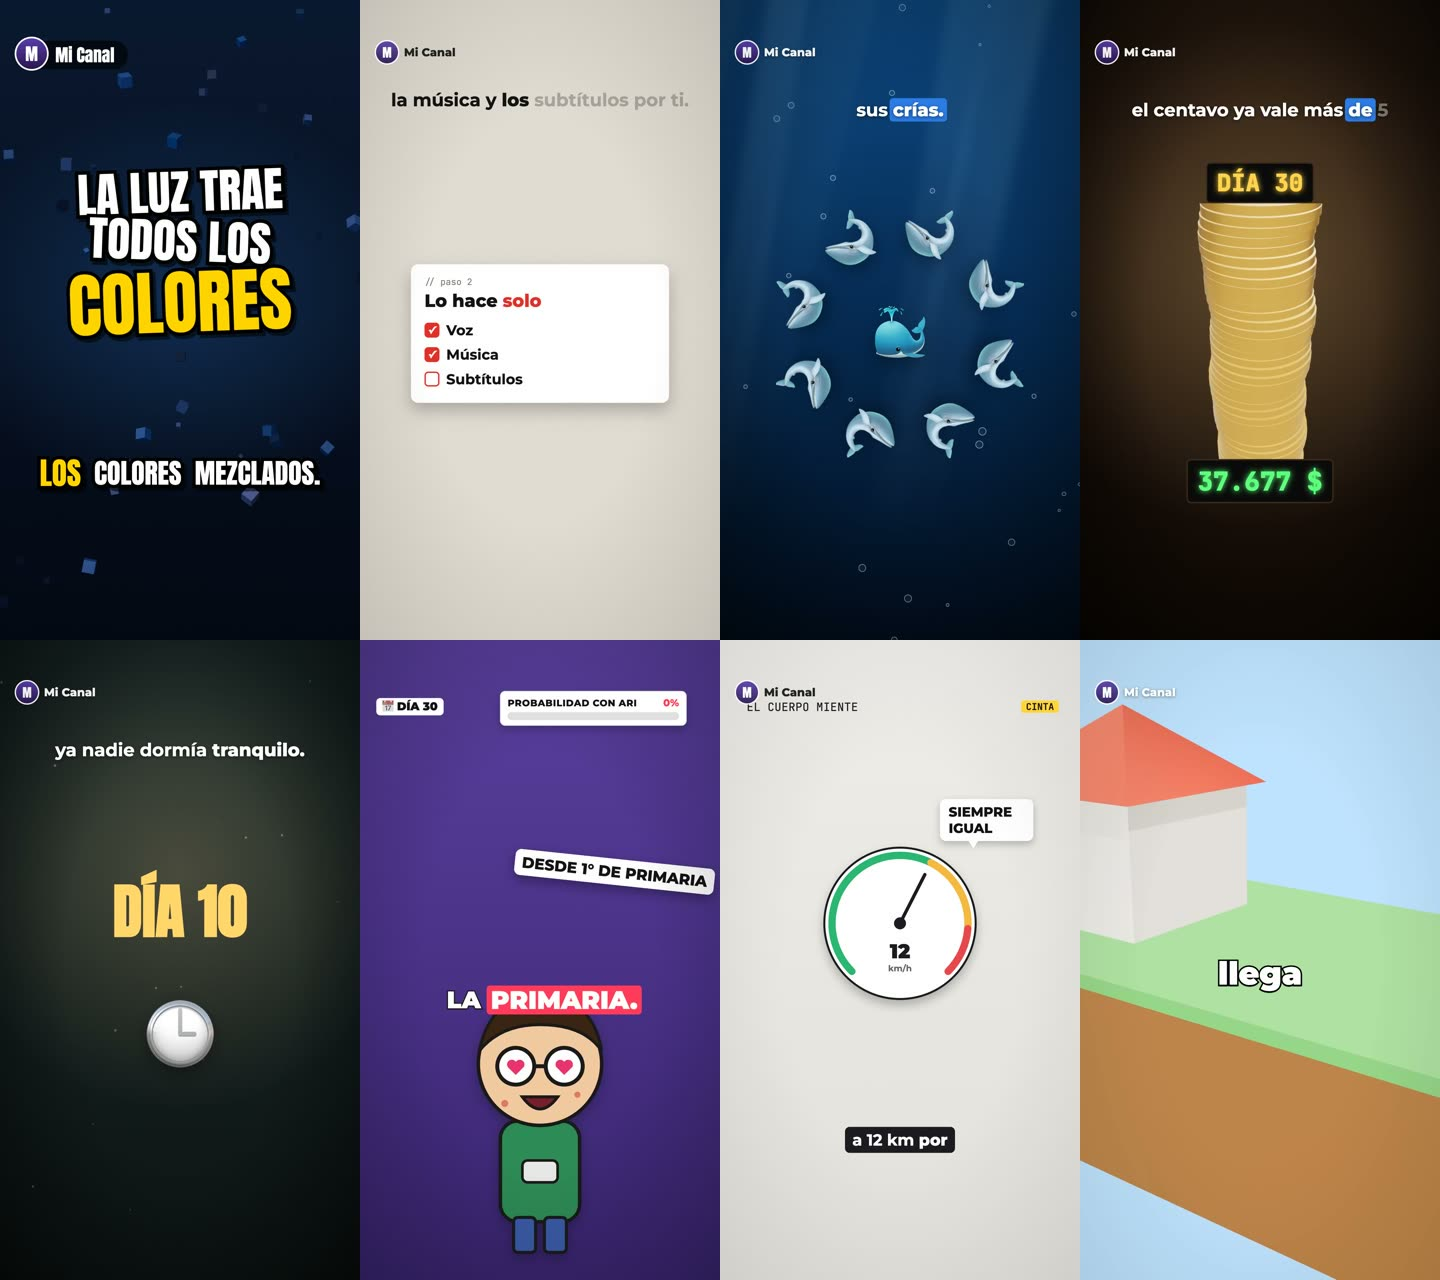
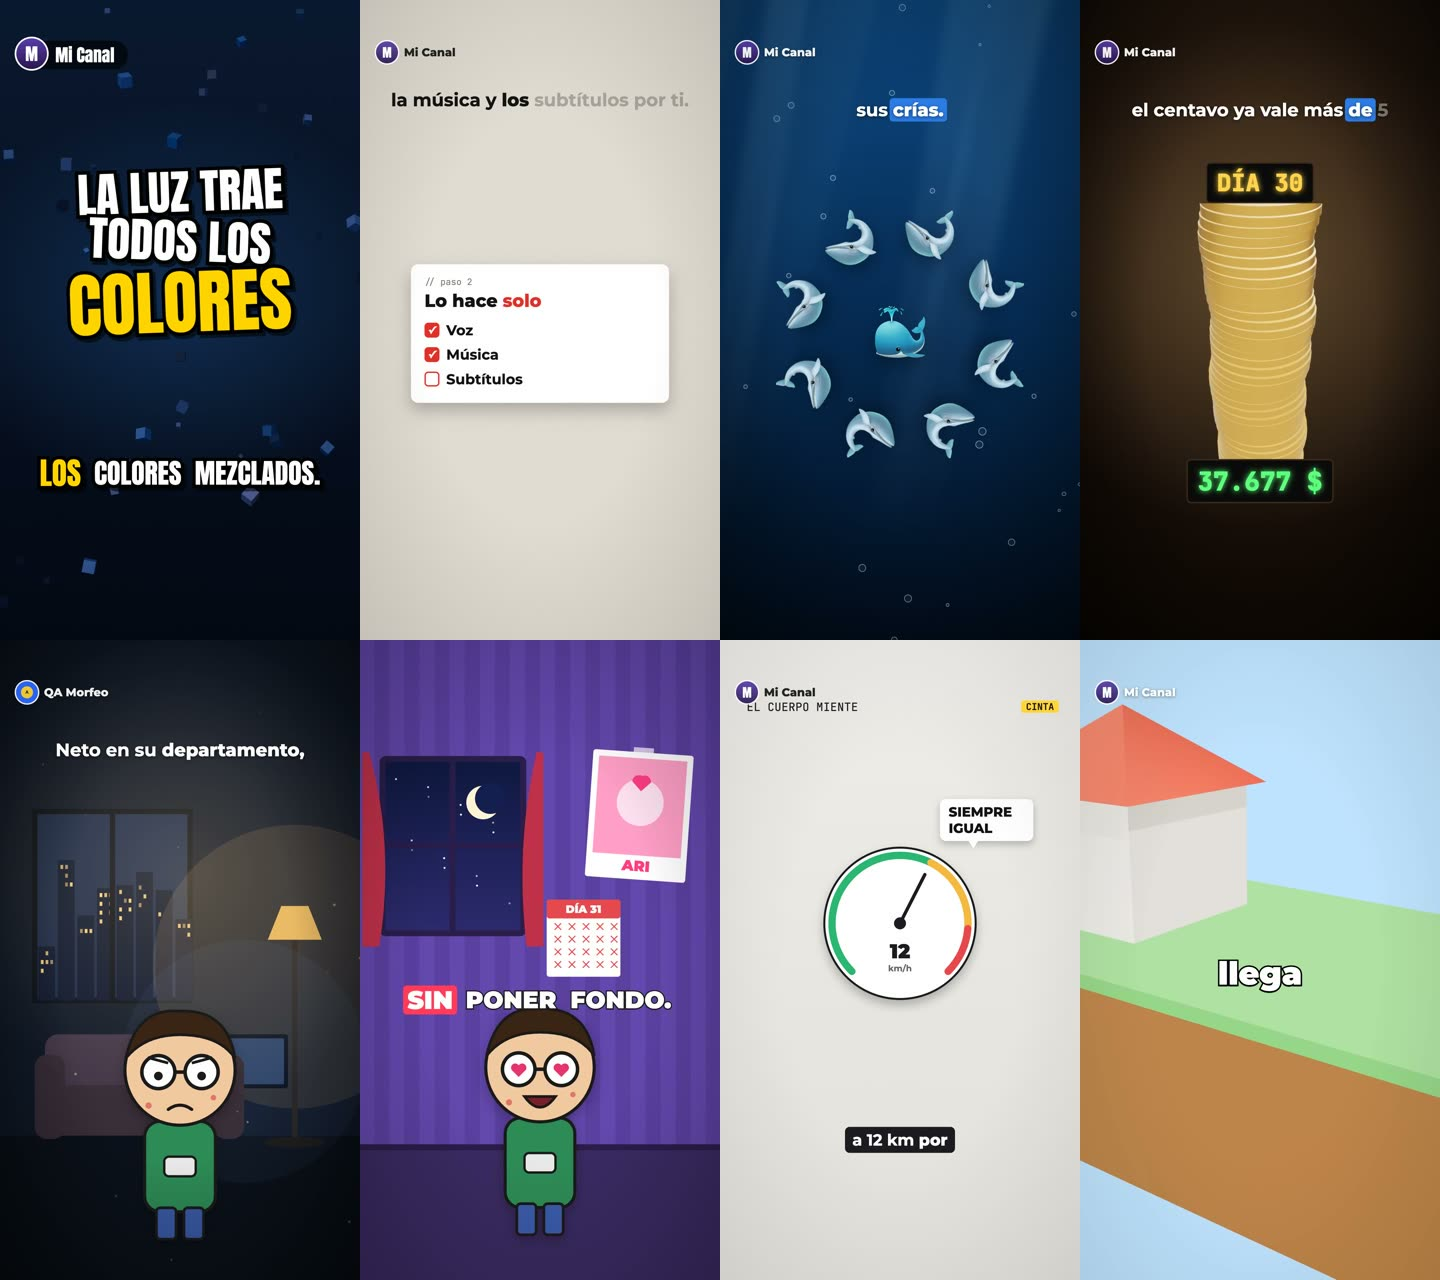
Docs 0.1.2: portada con objetos 2D/3D y escenarios, página de novedades y galería actualizada

Changed region(s): [[0.0, 0.5312, 0.5, 1.0], [0.0, 0.5312, 0.2188, 0.5938]]

diff --git a/docs/index.md b/docs/index.md
@@ -24,12 +24,18 @@ features:
   - icon: 🧩
     title: Motor de capas
     details: Imágenes, texto, contadores, tarjetas, teléfonos, medidores, votaciones, chats y modelos 3D que aparecen justo en la palabra que dice la voz.
+  - icon: 🧱
+    title: Objetos 2D y 3D
+    details: Escribe "tubería" o "pizza" y Morfeo trae el objeto de bibliotecas libres (Kenney, Poly Haven, Iconify), en 3D, realista o 2D en 17 estilos. Más tuberías con agua, muros y vigas hechos en código.
+  - icon: 🌲
+    title: Escenarios ilustrados
+    details: Bosque, cuarto, departamento, túnel y pasillo animados, para que un personaje nunca quede sobre un fondo vacío.
   - icon: 🎙
     title: Voces y música
     details: Voces Kokoro gratis en tu computadora, ElevenLabs, OpenAI o tu propia grabación. Música generada sin derechos o tu pista.
   - icon: ✨
     title: Con IA
-    details: Claude escribe el guion completo y la IA dibuja ilustraciones y poses de tu personaje. Todo en caché para no pagar dos veces.
+    details: Claude escribe el guion completo eligiendo objetos del diccionario según la temática, y la IA dibuja ilustraciones y poses de tu personaje. Todo en caché.
   - icon: 💬
     title: Subtítulos
     details: Karaoke, en bloque, palabra por palabra o estilo TikTok. Con Whisper quedan sincronizados con la voz.
@@ -42,7 +48,15 @@ features:
 
 ![Ocho estilos de Morfeo](/img/galeria.jpg)
 
-<p class="pie">De izquierda a derecha y de arriba abajo: datos-curiosos, explicativo, documental, mesa, historia, serie, infografia y 3d. Todos salieron de los <a href="https://github.com/UreckChan/morfeo/tree/main/ejemplos">ejemplos</a>.</p>
+<p class="pie">Estilos: datos-curiosos, explicativo, documental, mesa, historia, serie, infografia y 3d.</p>
+
+![Objetos 2D y 3D](/img/objetos.jpg)
+
+<p class="pie">Objetos 3D incluidos, construcción en código, modelos de Kenney, modelos realistas de Poly Haven e ilustraciones 2D en estilo clay. <a href="./guia/recursos">Ver objetos 2D y 3D</a>.</p>
+
+![Escenarios](/img/escenarios.jpg)
+
+<p class="pie">Escenarios incluidos: bosque, cuarto, departamento, túnel y pasillo. <a href="./guia/estilos#escenarios-ilustrados">Ver escenarios</a>.</p>
 
 </div>
 
@@ -54,6 +68,6 @@ npx morfeo render
 
 <style>
 .galeria { max-width: 960px; margin: 48px auto 24px; }
-.galeria img { border-radius: 14px; }
+.galeria img { border-radius: 14px; margin-top: 24px; }
 .pie { text-align: center; font-size: 14px; opacity: .7; }
 </style>

diff --git a/docs/novedades.md b/docs/novedades.md
@@ -1,0 +1,48 @@
+# Novedades
+
+Para actualizar un proyecto: `npm install morfeo@latest`.
+
+## 0.1.2
+
+**Objetos 2D y 3D sin dibujar nada**
+- Biblioteca de recursos con diccionario temático en español (19 temas): `{tipo: 'recurso', buscar: 'tubería', estilo: '3d'}`.
+- 3D low-poly de Kenney (~1.400 modelos), 3D realista de Poly Haven (~500 con texturas), 2D de Iconify (200 mil+, en 17 estilos visuales) y Poly Pizza opcional.
+- Caché compartida en `~/.morfeo/biblioteca` y créditos automáticos en `salida/creditos.md`.
+- `npx morfeo recursos temas` y `npx morfeo recursos buscar "pizza" --3d`.
+- 20 objetos 3D hechos en código (trofeo, cohete, corazón…) y piezas de construcción: tubería con agua que fluye, muro de ladrillos, viga, columna, escalera, losa, tanque y corte de suelo.
+- El guion con IA elige objetos del diccionario según la temática; los emojis quedan como último recurso.
+
+**Escenarios ilustrados**
+- Bosque, cuarto, departamento, túnel y pasillo, animados, como fondo (`{tipo: 'escenario'}`) o como capa.
+- `serie`, `ilustrado` e `historia` los usan por defecto.
+
+**Arreglos**
+- Una escena con solo `say` (sin capas) ya es válida.
+- Personaje, pose, escenario u objeto 3D inexistentes se avisan antes de renderizar.
+- Chat más legible y metales 3D menos oscuros.
+
+## 0.1.1
+
+**Render más rápido y estable**
+- En Mac con Apple Silicon usa la GPU por defecto (unas 4 veces más rápido); si falla, reintenta con CPU.
+- Concurrencia segura y reintento automático si el navegador truena.
+- Progreso visible también sin terminal interactiva.
+- Miniatura cuando la primera escena ya está completa y sin subtítulos (`miniaturaEn`).
+
+**Errores antes de renderizar**
+- Voces que no existen, con sugerencias ("¿quisiste decir em_alex?").
+- Archivos de `assets/` que no existen.
+
+**Arreglos visuales**
+- `escribir` ya no muestra los `**` del resaltado.
+- Estilo `3d` legible sobre cielo claro.
+- Los botones de `eleccion` ya no se enciman con los subtítulos de `serie`.
+- Teléfono sin imagen con pantalla de app; textura de papel fija (el estilo `explicativo` pesaba 10 veces más).
+- Cambiar solo parte de un tema (por ejemplo `tema: {subtitulos: {tipo: 'bloque'}}`) ya no borra el resto.
+
+**Nuevo:** capa `ventana`, una escotilla circular con borde metálico.
+
+## 0.1.0
+
+Primera versión: 10 estilos, motor de capas, voces Kokoro/ElevenLabs/OpenAI, música, subtítulos, guiones con IA,
+personajes, HUD, 3D y componentes propios.

diff --git a/README.md b/README.md
@@ -7,7 +7,11 @@ los subtítulos, las animaciones y la miniatura. Para YouTube Shorts, TikTok y R
 
 ![Estilos de Morfeo](docs/public/img/galeria.jpg)
 
-<sub>De izquierda a derecha y de arriba abajo: `datos-curiosos`, `explicativo`, `documental`, `mesa`, `historia`, `serie`, `infografia`, `3d`. Todos salieron de los [ejemplos](ejemplos/guiones).</sub>
+<sub>Estilos: `datos-curiosos`, `explicativo`, `documental`, `mesa`, `historia`, `serie`, `infografia`, `3d`.</sub>
+
+![Objetos 2D y 3D](docs/public/img/objetos.jpg)
+
+![Escenarios](docs/public/img/escenarios.jpg)
 
 ## Qué hace
 
@@ -20,6 +24,10 @@ los subtítulos, las animaciones y la miniatura. Para YouTube Shorts, TikTok y R
   - escenas 3D de Blender con recorrido de cámara.
 - **Motor de capas:** imágenes, texto, contadores, tarjetas, teléfonos, medidores, votaciones, noticieros, chats,
   personajes con poses, modelos 3D y tus propios componentes de React. Todo aparece justo en la palabra que dice la voz.
+- **Objetos 2D y 3D:** escribe `buscar: 'tubería'` y Morfeo trae el objeto de bibliotecas libres (Kenney, Poly Haven,
+  Iconify), en 3D low-poly, realista o 2D en 17 estilos, con diccionario temático en español. Además, objetos y piezas
+  de construcción hechos en código (tuberías con agua, muros, vigas…).
+- **Escenarios ilustrados:** bosque, cuarto, departamento, túnel y pasillo animados.
 - **Voces:**
   - Kokoro, gratis y en tu computadora, con más de 50 voces y mezclas;
   - ElevenLabs u OpenAI con tu cuenta;
@@ -74,6 +82,7 @@ npx morfeo render cachalote
 
 ## Más
 
+- **[Novedades](https://ureckchan.github.io/morfeo/novedades):** qué trae cada versión.
 - **[Documentación](https://ureckchan.github.io/morfeo/):** estilos, escenas, capas, animaciones, HUD, personajes, 3D, voces, música, guiones y la API para usarlo desde código.
 - **[Ejemplos](ejemplos):** los 8 videos de la galería, listos para renderizar. Entra a `ejemplos/`, corre `npm install` y luego `npx morfeo render`.
 - **¿Algo falla o tienes una idea?** [Abre un issue](../../issues/new/choose).
@@ -89,6 +98,7 @@ npx morfeo render cachalote
 | `morfeo studio` | Editor en el navegador para ver y ajustar en vivo |
 | `morfeo guion "tema"` | Claude escribe un video (`--estilo serie`, `--imagenes`, `--desde guion.txt`) |
 | `morfeo estilos` | Lista los estilos visuales |
+| `morfeo recursos buscar "x"` | Busca un objeto 2D/3D (`--3d`, `--realista`, `--2d --variante clay`) |
 
 ## Licencia
 

diff --git a/docs/guia/estilos.md b/docs/guia/estilos.md
@@ -11,16 +11,18 @@ Se elige por video (`estilo: 'documental'`) o para todo el proyecto en `morfeo.c
 | ![](/img/explicativo.jpg) | **`explicativo`** | Tutoriales: papel claro, titulares negro y rojo, etiquetas `// paso 1`, tarjetas y teléfonos |
 | ![](/img/documental.jpg) | **`documental`** | Naturaleza y ciencia: azul profundo, rayos de luz, burbujas, chips con datos |
 | ![](/img/mesa.jpg) | **`mesa`** | Dinero y crecimiento: mesa de madera con foco, objetos 3D, contadores LCD |
-| ![](/img/historia.jpg) | **`historia`** | Misterio: interiores oscuros, foco de luz, siluetas, letreros "DÍA 10" |
-| ![](/img/serie.jpg) | **`serie`** | Series con personaje: HUD (días, barras), cartas VS, "¡comenta!", subtítulos en bloque |
+| ![](/img/historia.jpg) | **`historia`** | Misterio: el departamento de noche por defecto, foco de luz, siluetas, letreros "DÍA 10" |
+| ![](/img/serie.jpg) | **`serie`** | Series con personaje en su cuarto: HUD (días, barras), cartas VS, "¡comenta!", subtítulos en bloque |
 | ![](/img/infografia.jpg) | **`infografia`** | Infografía plana: medidores, barras, globos, rayos X, subtítulos en caja |
 | ![](/img/3d.jpg) | **`3d`** | Tus escenas de Blender con recorrido de cámara, una palabra grande a la vez |
-| | **`ilustrado`** | Cuentos y animales: cielo de atardecer o tu escenario ilustrado |
+| ![](/img/ilustrado.jpg) | **`ilustrado`** | Cuentos y animales: el bosque animado por defecto, o tu escenario ilustrado |
 | | **`minimal`** | Oscuro y limpio, para lo que sea |
 
 </div>
 
 ## Escenarios ilustrados
+
+![Escenarios](/img/escenarios.jpg)
 
 Cinco escenarios animados para que un personaje nunca quede sobre un fondo vacío: `bosque` (estrellas, luna con cara que canta, luciérnagas), `cuarto` (ventana, póster, calendario y, como capa, el escritorio con teclado RGB), `departamento` (ciudad por la ventana, lámpara, tele), `tunel` (el tren llega en la palabra que digas) y `pasillo` (la puerta se sacude al tocar).
 

diff --git a/docs/guia/recursos.md b/docs/guia/recursos.md
@@ -7,6 +7,8 @@ Para ilustrar un video no hace falta dibujar nada. Usa, en este orden:
 3. **Tus imágenes** en `assets/`, o **imágenes con IA**.
 4. **Emojis**: solo como último recurso.
 
+![Objetos 2D y 3D](/img/objetos.jpg)
+
 ## Recursos de la biblioteca
 
 ```js
